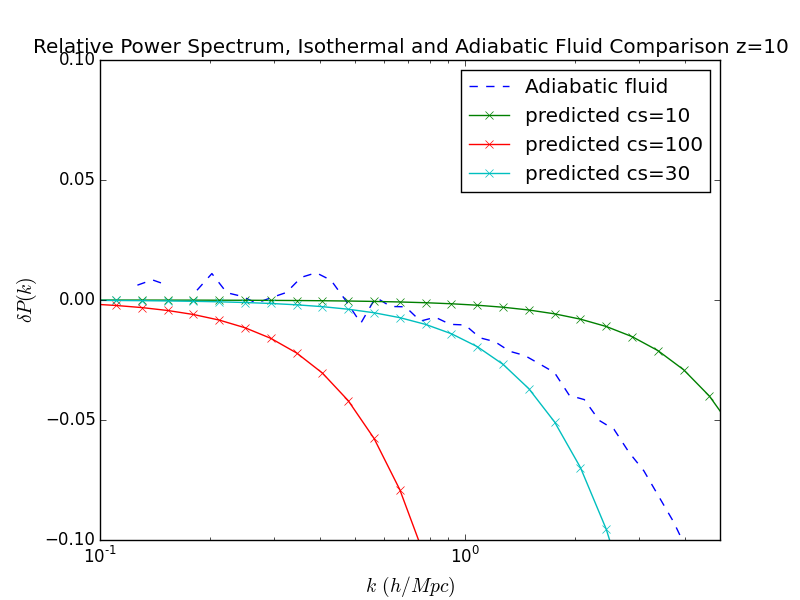
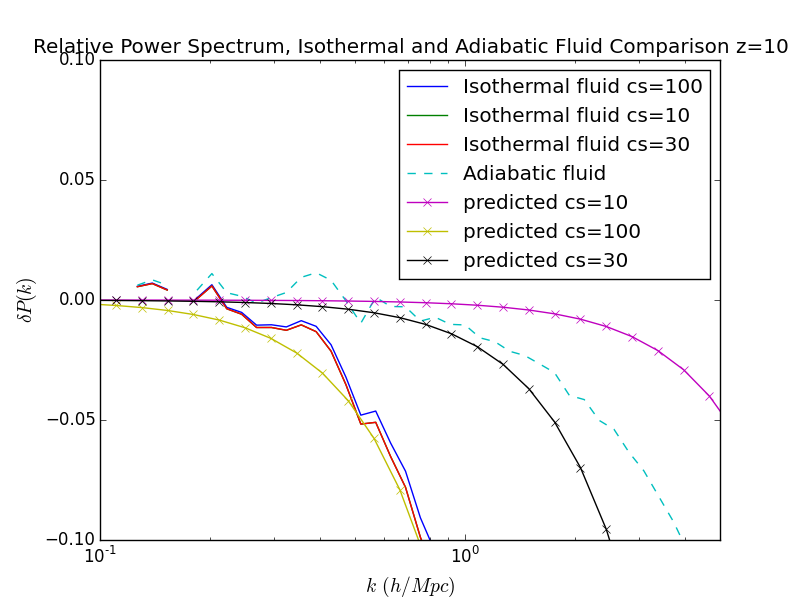
Reverted plot to lowres minpressure100 results -- not minpressure16.

diff --git a/plots/isothermal/isothermal_fluid_low_adiabatic_normalized_particle_z10_minpressure_lowres.py b/plots/isothermal/isothermal_fluid_low_adiabatic_normalized_particle_z10_minpressure_lowres.py
@@ -20,7 +20,7 @@ for simtype in simtypes:
     kvalues_base, ps_base = np.loadtxt(result_dir+base, unpack=True)
 
     for filename in filenames:
-        if 'iso' in filename and 'minpressure16' in filename:
+        if 'iso' in filename and 'minpressure' in filename:
             isothermal = isothermalpattern.findall(filename)[0]
             if isothermal in ['10','30','100']:
                 n = npattern.findall(filename)[0]
